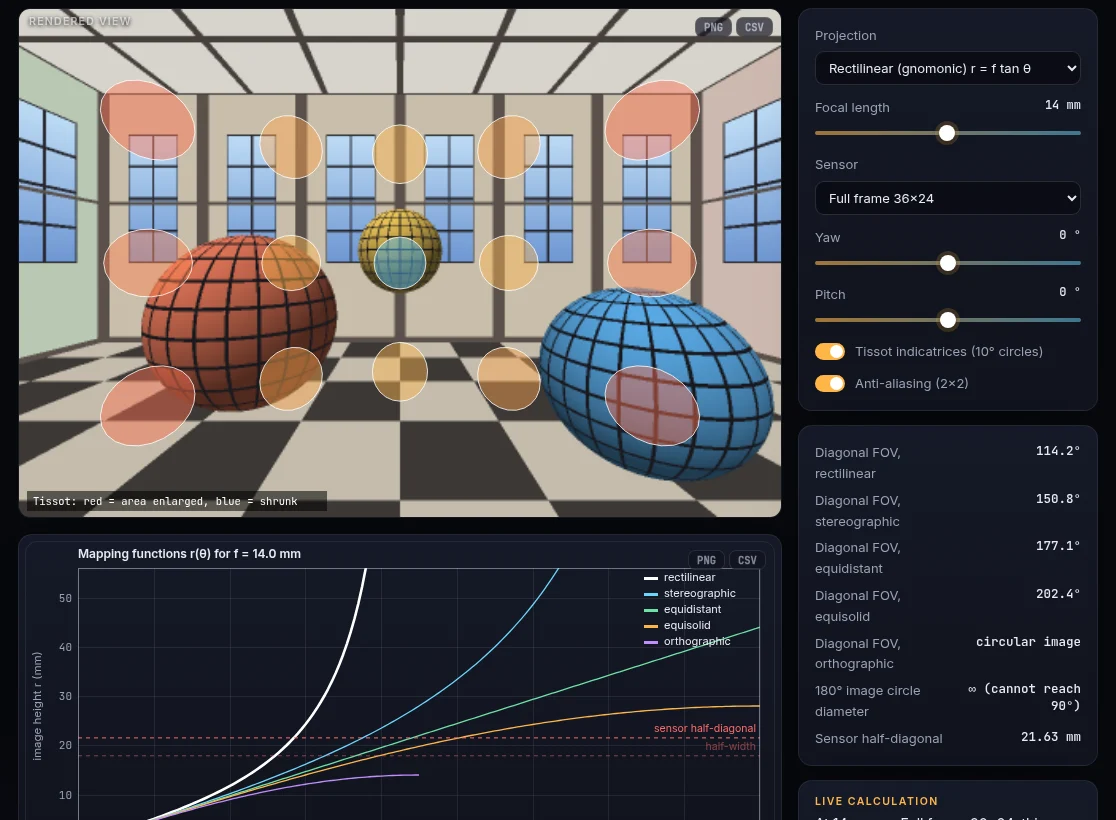
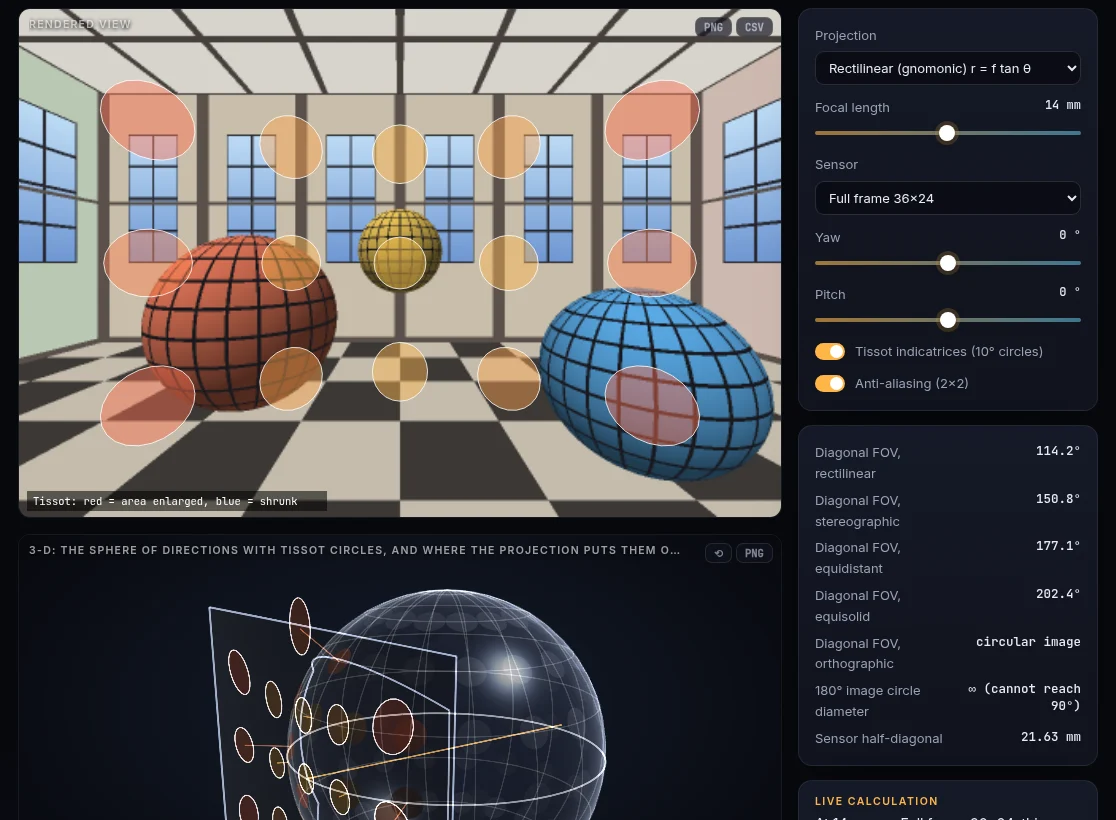
feat(3d): the sphere of directions with Tissot circles, unrolled onto each projection's image plane (#139)
The projection laboratory gets a 3-D view: the sphere of directions (radius f) with the Tissot circles, the image plane tangent to it at the axis with each circle's image, connector lines along the horizon and central meridian, and the sensor's field outlined on the sphere. Tissot circles are now computed once in js/lib/projection.js for both views; the area ratio is referenced to the equal-area image of the same polygon. Tests: equisolid keeps area, stereographic keeps circles, rectilinear area grows as sec³θ and is central projection.

diff --git a/js/modules/projection.js b/js/modules/projection.js
@@ -2,8 +2,10 @@ import { h, controls, stage, readouts, imageCanvas, fmt, texNum } from '../lib/u
 import { header, lab, idea, rule, theory, references, liveCalc } from '../lib/page.js';
 import { plot, range } from '../lib/plot.js';
 import { SENSORS } from '../lib/sensors.js';
-import { PROJ, forward } from '../lib/projection.js';
+import { PROJ, tissotCircles, tissotColour } from '../lib/projection.js';
 import { parallel, rowBands } from '../lib/compute.js';
+import { view3d } from '../lib/gl3d.js';
+import { projectionScene } from '../lib/projection3d.js';
 
 export default function mount(root, meta) {
   root.append(header({ ...meta, domains: ['photo', 'video', 'space'] }));
@@ -27,7 +29,8 @@ export default function mount(root, meta) {
   const calc = liveCalc();
   const view = stage({ aspect: 1.5, label: 'Rendered view', draw: drawView, minH: 280 });
   const curves = stage({ aspect: 2.2, label: '', draw: drawCurves, cls: 'plain', minH: 220 });
-  root.append(lab([view.el, h('div.card', { style: { padding: '6px' } }, curves.el)], [h('div.card', {}, ctl.el), h('div.card', {}, ro), calc.el]));
+  const v3 = view3d({ label: '3-D: the sphere of directions with Tissot circles, and where the projection puts them on the image plane', aspect: 1.7, minH: 280, yaw: 0.95, pitch: 0.3 });
+  root.append(lab([view.el, v3.el, h('div.card', { style: { padding: '6px' } }, curves.el)], [h('div.card', {}, ctl.el), h('div.card', {}, ro), calc.el]));
 
   let img = null;
   // rendered in parallel row bands by the compute workers (js/lib/projection.js); a newer
@@ -77,6 +80,15 @@ export default function mount(root, meta) {
     &\text{stereo: } h=${texNum(hs, 3)},\ k=${texNum(ks, 3)},\ h/k=${texNum(hs / ks, 3)}
     \end{aligned}`);
     view.redraw(); curves.redraw();
+    show3d();
+  }
+  // 3-D: the camera stays where the reader put it, unless the scene's size changes more than 1.5×
+  let size3d = 0;
+  function show3d() {
+    const st = ctl.state, S = SENSORS[st.sensor], size = Math.max(st.f, Math.hypot(S.w, S.h) / 2);
+    const keep = size3d > 0 && size / size3d < 1.5 && size3d / size < 1.5;
+    v3.setScene(projectionScene({ proj: st.proj, f: st.f, sw: S.w, sh: S.h, yaw: st.yaw, pitch: st.pitch }), keep);
+    if (!keep) size3d = size;
   }
 
   function drawView(ctx, w, hh) {
@@ -88,38 +100,13 @@ export default function mount(root, meta) {
     const st = ctl.state;
     if (!st.tissot) return;
     const S = img.S, mm = dw / S.w;
-    const cyw = Math.cos((st.yaw * Math.PI) / 180), syw = Math.sin((st.yaw * Math.PI) / 180);
-    const cp = Math.cos((st.pitch * Math.PI) / 180), sp = Math.sin((st.pitch * Math.PI) / 180);
-    // world → camera (inverse of the render rotation)
-    const toCam = (d) => {
-      const x0 = d[0] * cyw - d[2] * syw, z0 = d[0] * syw + d[2] * cyw;
-      return [x0, d[1] * cp - z0 * sp, d[1] * sp + z0 * cp];
-    };
-    const delta = (5 * Math.PI) / 180; // circle radius (10° diameter)
-    for (let lat = -60; lat <= 60; lat += 20) for (let lon = -160; lon <= 180; lon += 20) {
-      const la = (lat * Math.PI) / 180, lo = (lon * Math.PI) / 180;
-      const c = [Math.cos(la) * Math.sin(lo), Math.sin(la), Math.cos(la) * Math.cos(lo)];
-      const e1 = [Math.cos(lo), 0, -Math.sin(lo)], e2 = [-Math.sin(la) * Math.sin(lo), Math.cos(la), -Math.sin(la) * Math.cos(lo)];
-      const pts = [];
-      let ok = true;
-      for (let k = 0; k <= 24; k++) {
-        const a = (k / 24) * 2 * Math.PI, ca = Math.cos(delta), sa = Math.sin(delta);
-        const d = [0, 1, 2].map((q) => c[q] * ca + sa * (Math.cos(a) * e1[q] + Math.sin(a) * e2[q]));
-        const p = forward(st.proj, toCam(d), st.f);
-        if (!p || !isFinite(p[0])) { ok = false; break; }
-        pts.push([ox + dw / 2 + p[0] * mm, oy + dh / 2 - p[1] * mm]);
-      }
-      if (!ok) continue;
+    for (const t of tissotCircles(st.proj, st.f, st.yaw, st.pitch)) {
+      if (!t.img) continue;
+      const pts = [...t.img.slice(1), t.img[1]].map(([x, y]) => [ox + dw / 2 + x * mm, oy + dh / 2 - y * mm]);
       if (pts.some(([x, y]) => x < ox - 40 || x > ox + dw + 40 || y < oy - 40 || y > oy + dh + 40)) continue;
-      // area relative to the image centre
-      let A = 0; for (let k = 0; k < pts.length - 1; k++) A += pts[k][0] * pts[k + 1][1] - pts[k + 1][0] * pts[k][1];
-      A = Math.abs(A) / 2;
-      const A0 = Math.PI * (st.f * delta * mm) ** 2;
-      const ratio = A / A0;
-      if (ratio > 60) continue;
-      const hue = ratio > 1 ? `rgba(255,${Math.max(60, 200 - 60 * Math.log2(ratio))},80,0.45)` : `rgba(90,${150 + 50 * ratio},255,0.45)`;
+      if (t.ratio > 60) continue;
       ctx.beginPath(); pts.forEach(([x, y], k) => (k ? ctx.lineTo(x, y) : ctx.moveTo(x, y)));
-      ctx.fillStyle = hue; ctx.fill(); ctx.strokeStyle = 'rgba(255,255,255,0.8)'; ctx.lineWidth = 1; ctx.stroke();
+      ctx.fillStyle = `rgba(${tissotColour(t.ratio).join(',')},0.45)`; ctx.fill(); ctx.strokeStyle = 'rgba(255,255,255,0.8)'; ctx.lineWidth = 1; ctx.stroke();
     }
     ctx.fillStyle = 'rgba(0,0,0,0.55)'; ctx.fillRect(ox + 8, oy + dh - 26, 300, 20);
     ctx.fillStyle = '#fff'; ctx.font = '10.5px "JetBrains Mono", monospace'; ctx.textAlign = 'left';
@@ -159,7 +146,9 @@ export default function mount(root, meta) {
 <h3>Tissot's indicatrix</h3>
 <p>An infinitesimal circle of angular radius \(\delta\) on the sphere maps to an ellipse with semi-axes \(h\delta\) (radial) and \(k\delta\) (tangential), where</p>
 \[h = \frac{dR}{d\theta},\qquad k = \frac{R(\theta)}{\sin\theta}.\]
-<p>Conformality means \(h = k\) (stereographic). Equal area means \(hk = f^2\) (equisolid). For a rectilinear lens \(h = f\sec^2\theta\) and \(k = f\sec\theta\). Area therefore grows as \(\sec^3\theta\), and objects are stretched radially by a further factor \(\sec\theta\). This is the "volume anamorphosis" that turns faces at the edge of a wide-angle group photo into ovals. The overlay draws the exact images of 10° circles by mapping 24 boundary directions through the projection.</p>
+<p>Conformality means \(h = k\) (stereographic). Equal area means \(hk = f^2\) (equisolid). For a rectilinear lens \(h = f\sec^2\theta\) and \(k = f\sec\theta\). Area therefore grows as \(\sec^3\theta\), and objects are stretched radially by a further factor \(\sec\theta\). This is the "volume anamorphosis" that turns faces at the edge of a wide-angle group photo into ovals. The overlay draws the exact images of 10° circles by mapping 24 boundary directions through the projection. Each is coloured by its area relative to the image of the same 24-sided polygon under the equal-area mapping, so the polygon's own area deficit cancels.</p>
+<h3>The sphere of directions</h3>
+<p>Every projection starts from the same object: the sphere of all directions around the centre of projection. The 3-D view draws it with radius \(f\), so that the image plane is the plane tangent to it at the optical axis. The gnomonic projection is then literal: each direction's image is where the straight line from the centre through the sphere meets the plane, and nothing beyond 90° ever reaches it. Every other mapping places the image at \(R(\theta)\) instead of \(f\tan\theta\), so the line from a circle to its image no longer passes through the centre. The fisheyes fold the whole forward hemisphere inside the gold circle \(r = R(90^\circ)\). The outline on the sphere is the sensor's border mapped back through the projection: the part of the world the picture contains. Near the back pole a 5° circle's image becomes a thin crescent, which the 24-point outline only approximates.</p>
 </div><div>
 <h3>Why spheres become ellipses</h3>
 <p>A sphere subtends a circular cone. A gnomonic projection images that cone as a conic section (an ellipse whose eccentricity grows with \(\theta\)), even though the projection is "distortion-free" in the lens-designer's sense. Panoramic projections such as cylindrical and Panini give up straightness of horizontal lines to keep verticals straight and objects round. Panini (\(d = 1\)) is a stereographic projection of a cylinder. Painters of vedute used it intuitively.</p>
@@ -174,5 +163,5 @@ export default function mount(root, meta) {
     'T. K. Sharpless, B. Postle &amp; D. M. German, "Pannini: a new projection for rendering wide angle perspective images", Computational Aesthetics (2010).',
     'M. R. Calabretta &amp; E. W. Greisen, "Representations of celestial coordinates in FITS", A&amp;A 395, 1077 (2002).',
   ]));
-  return () => [view, curves].forEach((s) => s.destroy());
+  return () => [view, v3, curves].forEach((s) => s.destroy());
 }

diff --git a/js/lib/projection3d.js b/js/lib/projection3d.js
@@ -1,0 +1,94 @@
+// 3-D scene for the projection laboratory (shown by js/lib/gl3d.js): the sphere of directions,
+// radius f, around the centre of projection, with the Tissot circles of the 2-D overlay on it, and
+// the image plane tangent to the sphere at the optical axis (distance f, as for a pinhole), on
+// which the same circles land where the chosen projection puts them. A thin line joins each
+// circle on the horizon and on the central meridian to its image: for the rectilinear projection these lines are rays through
+// the centre, for every other mapping they are not. In millimetres, camera frame (x right, y up,
+// z along the optical axis). Pure: no DOM.
+import { PROJ, inverse, toCamera, tissotCircles, tissotColour } from './projection.js';
+import { sphere, quad, merge, tint } from './mesh3d.js';
+
+const SENSOR = [0.62, 0.66, 0.74], AXIS = [1, 0.71, 0.28];
+
+// A filled polygon (a fan around its first point) with a single normal; pts: [[x, y, z], …],
+// the first being the centre.
+function fan(pts, n) {
+  const positions = new Float32Array(pts.flat()), normals = new Float32Array(pts.length * 3), idx = [];
+  for (let i = 0; i < pts.length; i++) normals.set(n(pts[i]), i * 3);
+  for (let k = 1; k < pts.length; k++) idx.push(0, k, k === pts.length - 1 ? 1 : k + 1);
+  return { positions, normals, indices: new Uint32Array(idx) };
+}
+const scale = (d, r) => [d[0] * r, d[1] * r, d[2] * r];
+const rgb = (c) => c.map((v) => v / 255);
+
+// Does the image point lie on the sensor (with a margin of 6 % of its width)?
+export const onSensor = ([x, y], sw, sh) => Math.abs(x) <= sw * 0.56 && Math.abs(y) <= sh / 2 + sw * 0.06;
+
+// The edge of the sensor's field of view on the sphere: the sensor outline mapped back through the
+// projection, as polylines of unit directions (split where the outline leaves the image circle).
+export function fieldEdge(proj, f, sw, sh, n = 48) {
+  const border = [];
+  for (let i = 0; i < n; i++) border.push([-sw / 2 + (sw * i) / n, sh / 2]);
+  for (let i = 0; i < n; i++) border.push([sw / 2, sh / 2 - (sh * i) / n]);
+  for (let i = 0; i < n; i++) border.push([sw / 2 - (sw * i) / n, -sh / 2]);
+  for (let i = 0; i <= n; i++) border.push([-sw / 2, -sh / 2 + (sh * i) / n]);
+  const runs = [];
+  let run = [];
+  for (const [x, y] of border) {
+    const d = inverse(proj, x, y, f);
+    if (d) run.push(d);
+    else if (run.length) { runs.push(run); run = []; }
+  }
+  if (run.length) runs.push(run);
+  return runs.filter((r) => r.length > 1);
+}
+
+// m = { proj, f (mm), sw, sh (sensor, mm), yaw, pitch (°) }
+export function projectionScene({ proj, f, sw, sh, yaw, pitch }) {
+  const meshes = [], lines = [], labels = [];
+  const cam = toCamera(yaw, pitch), P = PROJ[proj];
+  // the sphere of directions, its world graticule (horizon brighter) and the optical axis
+  meshes.push({ mesh: sphere(f, [0, 0, 0], 48, 24), color: [0.55, 0.62, 0.8], opacity: 0.1, glass: true });
+  const deg = Math.PI / 180;
+  for (let lat = -80; lat <= 80; lat += 20) {
+    const pts = [];
+    for (let lo = 0; lo <= 360; lo += 5) pts.push(scale(cam([Math.cos(lat * deg) * Math.sin(lo * deg), Math.sin(lat * deg), Math.cos(lat * deg) * Math.cos(lo * deg)]), f));
+    lines.push({ points: pts, color: lat === 0 ? [1, 1, 1, 0.5] : [1, 1, 1, 0.13], width: lat === 0 ? 1.4 : 1, glow: false });
+  }
+  for (let lo = 0; lo < 360; lo += 20) {
+    const pts = [];
+    for (let la = -90; la <= 90; la += 5) pts.push(scale(cam([Math.cos(la * deg) * Math.sin(lo * deg), Math.sin(la * deg), Math.cos(la * deg) * Math.cos(lo * deg)]), f));
+    lines.push({ points: pts, color: [1, 1, 1, 0.13], width: 1, glow: false });
+  }
+  lines.push({ points: [[0, 0, -f * 1.1], [0, 0, f]], color: [...AXIS, 0.7], width: 1.2 });
+  labels.push({ p: [0, -f * 0.14, 0], text: 'centre of projection', color: '#ffb547' });
+  // the image plane at z = f: the sensor, and for fisheyes the image of the hemisphere
+  meshes.push({ mesh: quad([0, 0, f * 0.999], [1, 0, 0], [0, 1, 0], sw / 2, sh / 2), color: [0.1, 0.11, 0.14], opacity: 0.4, glass: true });
+  lines.push({ points: [[-sw / 2, sh / 2, f], [sw / 2, sh / 2, f], [sw / 2, -sh / 2, f], [-sw / 2, -sh / 2, f], [-sw / 2, sh / 2, f]], color: [...SENSOR, 0.9], width: 1.5 });
+  labels.push({ p: [0, -sh / 2 - sw * 0.05, f], text: `image plane, sensor ${sw} × ${sh} mm`, color: '#c9cfdc' });
+  if (!P.cyl && P.max >= Math.PI / 2) {
+    const r = P.R(Math.PI / 2, f), pts = [];
+    for (let k = 0; k <= 96; k++) pts.push([r * Math.cos((k / 96) * 2 * Math.PI), r * Math.sin((k / 96) * 2 * Math.PI), f]);
+    lines.push({ points: pts, color: [...AXIS, 0.55], width: 1.2 });
+    labels.push({ p: [r * 0.71, -r * 0.71, f], text: '90° from the axis', color: '#ffb547' });
+  }
+  // what the sensor sees, outlined on the sphere
+  for (const run of fieldEdge(proj, f, sw, sh)) lines.push({ points: run.map((d) => scale(d, f * 1.004)), color: [...SENSOR, 0.85], width: 1.4 });
+  // the Tissot circles: on the sphere, and on the image plane where they fall on the sensor (merged
+  // into one mesh per opacity, with per-vertex colours)
+  const onSphere = [], offSphere = [], onImage = [];
+  for (const t of tissotCircles(proj, f, yaw, pitch)) {
+    const shown = t.img && t.ratio <= 60 && t.img.every((p) => onSensor(p, sw, sh));
+    const col = shown ? rgb(tissotColour(t.ratio)) : [0.5, 0.52, 0.58];
+    (shown ? onSphere : offSphere).push(tint(fan([t.centre, ...t.ring].map((d) => scale(d, f * 1.003)), (p) => scale(p, 1 / Math.hypot(...p))), col));
+    if (!shown) continue;
+    const img = t.img.map(([x, y]) => [x, y, f * 1.002]);
+    onImage.push(tint(fan(img, () => [0, 0, 1]), col));
+    lines.push({ points: [...img.slice(1), img[1]], color: [1, 1, 1, 0.75], width: 1, glow: false });
+    if (t.lat === 0 || t.lon === 0) lines.push({ points: [scale(t.centre, f), img[0]], color: [...col, 0.5], width: 1, glow: false });
+  }
+  for (const [list, opacity] of [[onSphere, 0.75], [offSphere, 0.3], [onImage, 0.6]]) if (list.length) meshes.push({ mesh: merge(list), color: [1, 1, 1], opacity });
+  // aim at the sphere and the sensor together
+  const half = Math.max(f, Math.hypot(sw, sh) / 2);
+  return { meshes, lines, labels, frame: { centre: [0, 0, f * 0.35], size: Math.hypot(2 * half, f * 2) * 0.95 } };
+}

diff --git a/js/lib/projection.js b/js/lib/projection.js
@@ -42,6 +42,52 @@ export function forward(p, d, f) {
   return [r * Math.cos(a), r * Math.sin(a)];
 }
 
+// World → camera directions for a camera yawed (about y) and pitched (about x), in degrees: the
+// inverse of the rotation used by projectionRows.
+export function toCamera(yaw, pitch) {
+  const cy = Math.cos((yaw * Math.PI) / 180), sy = Math.sin((yaw * Math.PI) / 180);
+  const cp = Math.cos((pitch * Math.PI) / 180), sp = Math.sin((pitch * Math.PI) / 180);
+  return (d) => {
+    const x0 = d[0] * cy - d[2] * sy, z0 = d[0] * sy + d[2] * cy;
+    return [x0, d[1] * cp - z0 * sp, d[1] * sp + z0 * cp];
+  };
+}
+
+// Tissot indicatrices: circles of angular radius δ on the sphere of directions, centred every 20°
+// in latitude (±60°) and longitude (world frame), each traced by n boundary directions.
+// Returns [{ lat, lon, centre, ring (camera-frame unit vectors), img: [[x, y] mm, …] (the
+// exact images of centre and ring, or null if any point has none), ratio }], where ratio is the
+// image area relative to an equal-area projection's (> 1: enlarged); the reference is the
+// image of the same n-gon under r = 2f sin(θ/2), so the polygon's own area deficit cancels.
+export const TISSOT_DELTA = (5 * Math.PI) / 180;
+export function tissotCircles(proj, f, yaw, pitch, delta = TISSOT_DELTA, n = 24) {
+  const cam = toCamera(yaw, pitch), out = [];
+  const A0 = (n / 2) * Math.sin((2 * Math.PI) / n) * (2 * f * Math.sin(delta / 2)) ** 2;
+  for (let lat = -60; lat <= 60; lat += 20) for (let lon = -160; lon <= 180; lon += 20) {
+    const la = (lat * Math.PI) / 180, lo = (lon * Math.PI) / 180;
+    const c = [Math.cos(la) * Math.sin(lo), Math.sin(la), Math.cos(la) * Math.cos(lo)];
+    const e1 = [Math.cos(lo), 0, -Math.sin(lo)], e2 = [-Math.sin(la) * Math.sin(lo), Math.cos(la), -Math.sin(la) * Math.cos(lo)];
+    const ca = Math.cos(delta), sa = Math.sin(delta), ring = [];
+    for (let k = 0; k < n; k++) {
+      const a = (k / n) * 2 * Math.PI;
+      ring.push(cam([0, 1, 2].map((q) => c[q] * ca + sa * (Math.cos(a) * e1[q] + Math.sin(a) * e2[q]))));
+    }
+    const centre = cam(c);
+    let img = [centre, ...ring].map((d) => forward(proj, d, f));
+    if (img.some((p) => !p || !isFinite(p[0]) || !isFinite(p[1]))) img = null;
+    let ratio = NaN;
+    if (img) {
+      let A = 0;
+      for (let k = 1; k <= n; k++) { const p = img[k], q = img[k === n ? 1 : k + 1]; A += p[0] * q[1] - q[0] * p[1]; }
+      ratio = Math.abs(A) / 2 / A0;
+    }
+    out.push({ lat, lon, centre, ring, img, ratio });
+  }
+  return out;
+}
+// Fill colour (0–255) for an area ratio: red when enlarged, blue when shrunk.
+export const tissotColour = (ratio) => (ratio > 1 ? [255, Math.max(60, 200 - 60 * Math.log2(ratio)), 80] : [90, 150 + 50 * ratio, 255]);
+
 // ── Scene: a 12 × 12 m hall with windows, chequered floor and globes ───────────────────
 const BOX = { x: 6, yl: -1.6, yh: 3.4, z: 6 };
 const GLOBES = [[-1.6, -0.6, 3.2, 0.9], [1.9, -0.9, 2.4, 0.7], [0, 0.2, 5.0, 0.7], [-3.6, -0.8, 0.8, 0.75], [3.7, -0.7, -1.5, 0.85]];

diff --git a/js/locales/fr.js b/js/locales/fr.js
@@ -1249,4 +1249,5 @@ export default {
   "Test colours the display cannot show": "Couleurs test que l’écran ne peut pas afficher",
   "3-D: every surface colour possible under this light, in CIE xyY, with a display gamut": "3-D : toutes les couleurs de surface possibles sous cette lumière, en CIE xyY, avec un gamut d’écran",
   "3-D, true scale: what the camera sees, the plane of focus and the sharp zone": "3-D, à l’échelle : ce que voit l’appareil, le plan de netteté et la zone nette",
+  "3-D: the sphere of directions with Tissot circles, and where the projection puts them on the image plane": "3-D : la sphère des directions avec les cercles de Tissot, et où la projection les place sur le plan image",
 };

diff --git a/js/locales/es.js b/js/locales/es.js
@@ -1249,4 +1249,5 @@ export default {
   "Test colours the display cannot show": "Colores de prueba que la pantalla no puede mostrar",
   "3-D: every surface colour possible under this light, in CIE xyY, with a display gamut": "3-D: todos los colores de superficie posibles con esta luz, en CIE xyY, con una gama de pantalla",
   "3-D, true scale: what the camera sees, the plane of focus and the sharp zone": "3-D, a escala: lo que ve la cámara, el plano de enfoque y la zona nítida",
+  "3-D: the sphere of directions with Tissot circles, and where the projection puts them on the image plane": "3-D: la esfera de direcciones con los círculos de Tissot y dónde los coloca la proyección en el plano imagen",
 };

diff --git a/js/locales/de.js b/js/locales/de.js
@@ -1249,4 +1249,5 @@ export default {
   "Test colours the display cannot show": "Testfarben, die das Display nicht zeigen kann",
   "3-D: every surface colour possible under this light, in CIE xyY, with a display gamut": "3-D: jede unter diesem Licht mögliche Oberflächenfarbe in CIE xyY, mit einem Displayfarbraum",
   "3-D, true scale: what the camera sees, the plane of focus and the sharp zone": "3-D, maßstäblich: was die Kamera sieht, die Schärfeebene und der scharfe Bereich",
+  "3-D: the sphere of directions with Tissot circles, and where the projection puts them on the image plane": "3-D: die Richtungskugel mit Tissot-Kreisen und wohin die Projektion sie auf der Bildebene legt",
 };

diff --git a/README.md b/README.md
@@ -216,7 +216,7 @@ Ten formats from phone to IMAX inside a real image circle. The equivalence table
 **Fisheye vs rectilinear** · `#/projection`<br>
 <img src="docs/screenshots/projection.webp" alt="Rectilinear projection of a 3-D hall with Tissot indicatrices">
 
-Per-pixel inverse ray casting into a 3-D hall through seven projections: gnomonic, stereographic, equidistant, equisolid, orthographic, Panini and equirectangular. **Exact Tissot indicatrices** show local distortion.
+Per-pixel inverse ray casting into a 3-D hall through seven projections: gnomonic, stereographic, equidistant, equisolid, orthographic, Panini and equirectangular. **Exact Tissot indicatrices** show local distortion. A **3-D view** puts the same circles on the sphere of directions and on the image plane tangent to it, so you can see each projection unroll the sphere: rectilinear is central projection through the centre, the fisheyes fold the whole sphere into a circle.
 
 </td>
 </tr>
@@ -852,6 +852,7 @@ Optica_Viva/
 │   │   ├── tilt3d.js          3-D Scheimpflug geometry at true scale, and the plane of focus over the toy town
 │   │   ├── dof3d.js           3-D depth of field: the camera's frustum, plane of focus, sharp zone and cards at true scale
 │   │   ├── colour3d.js        3-D colour solid: optimal colours under a source in xyY, display gamuts, test colours
+│   │   ├── projection3d.js    3-D sphere of directions with Tissot circles, the image plane and the sensor's field
 │   │   ├── i18n.js            Interface translation: t(), N_(), language choice and loading
 │   │   ├── transit.js         Transit light curves with limb darkening, orbits, photometric noise
 │   │   ├── ledset.js          LED mission: flicker-free shutter angles, PWM banding, safe wall distance
@@ -948,6 +949,9 @@ The numerical core was checked against published or analytically known values. E
 | Real-ray flare ghosts, Double-Gauss at f/18, 0.57° (4 paths) | position within 3 %, size within 2 %, flux within 3 % | y–nu ghost matrices: (B − AD/C)θ, \|A/C\| r<sub>stop</sub>, R<sub>i</sub>R<sub>j</sub> π(r<sub>stop</sub>/C)² |
 | Brewster angle, water and N-BK7 | 53.12°, 56.60° | arctan n = 53.12°, 56.60° |
 | Three ideal polarisers at 0°, 45°, 90° (unpolarised input) | 1/8 | ½ · cos²45° · cos²45° = 0.125 |
+| Tissot area ratio, equisolid fisheye (5° circles up to 140° off axis) | 1 within 0.2 % | equal-area projection: hk = f² |
+| Tissot circle, stereographic, 40° latitude | a circle to 10⁻⁹ | conformal: circles map to circles |
+| Tissot area ratio, rectilinear at 40° | 2.255 | sec³θ = 2.225 (5° circle: +1.4 %) |
 | Rayleigh optical depth at 550 nm | 0.0973 | sea-level standard atmosphere ≈ 0.097 |
 | Polarised lake render, centre pixel | equals an explicit Mueller chain (rotate · reflect · rotate · polarise) to 10⁻⁶ | independent vector-frame calculation |
 | Vertical polariser on a Brewster-angle reflection | < 1 % transmitted | reflection fully s-polarised (R<sub>p</sub> = 0) |

diff --git a/ROADMAP.md b/ROADMAP.md
@@ -75,7 +75,7 @@ flowchart LR
 | Laboratories | 59 pages, including 9 missions and the reference pages | see Planned milestones |
 | Catalogue entries | 228, each with details and a worked example | link every new lab |
 | Lens prescriptions | 15: camera lenses from the Petzval to the Biogon, Hubble, a Cassegrain and a three-mirror anastigmat; aspheres, mirrors, model glasses and file import | (none planned) |
-| Automated tests | 308 tests (physics, blur, lens I/O, ghosts, bokeh, polarisation, macro, colour, AO) + link check + browser smoke test in CI | more coverage per new lab |
+| Automated tests | 310 tests (physics, blur, lens I/O, ghosts, bokeh, polarisation, macro, colour, AO) + link check + browser smoke test in CI | more coverage per new lab |
 | Deployment | GitHub Pages, deployed from `main` by CI | (none) |
 
 ---
@@ -519,7 +519,7 @@ Candidates, in order of how much the third dimension adds:
 - [x] **P1 · M** **Polarisation** (#130): the electric field along the beam through each polariser and wave plate (flat waves, helices, ellipses, with the unpolarised share as a ring), and the Poincaré sphere with the state after each element.
 - [x] **P1 · S** **Wavefronts and PSFs as surfaces** (#129): the Zernike wavefront over a round pupil next to its PSF's log relief, and the PSF laboratory's star image as a relief in its own colours (JWST's six spikes in near-infrared colour). *The seeing phase screen remains.*
 - [x] **P2 · M** **Depth of field**: at true scale, the camera's view frustum (the photograph's sensor, height and shifted framing), the plane of focus, the sharp zone as a glass slab and the cards coloured by their blur.
-- [ ] **P2 · M** **Projections**: the sphere of directions with Tissot circles, unrolled onto each projection's image plane.
+- [x] **P2 · M** **Projections**: the sphere of directions (radius f) with the Tissot circles, the image plane tangent to it at the axis, each circle's image where the projection puts it, and the sensor's field outlined on the sphere.
 - [ ] **P2 · M** **Gravitational lensing**: rays bending past the lens galaxy between source and observer, with the Einstein ring as a cone.
 - [ ] **P2 · M** **Interferometry**: the rotating Earth with the array's baselines sweeping the u-v plane.
 - [ ] **P2 · M** **Orbits**: Earth observation (orbit, swath and push-broom footprint) and exoplanet transits (orbit, line of sight, impact parameter).

diff --git a/CHANGELOG.md b/CHANGELOG.md
@@ -6,6 +6,12 @@ The format follows [Keep a Changelog](https://keepachangelog.com/en/1.1.0/), and
 
 ## [Unreleased]
 
+### Added
+- **3-D projections** (`js/lib/projection3d.js`): the projection laboratory shows the sphere of directions, radius f, with the Tissot circles on it, and the image plane tangent to it at the optical axis, where each circle lands as the chosen projection maps it. Lines join the circles on the horizon and the central meridian to their images (straight rays through the centre only for the rectilinear lens); the sensor's field is outlined on the sphere, and circles outside it are grey. The Tissot circles are now computed once in `js/lib/projection.js` (`tissotCircles`, `tissotColour`, `toCamera`) for the 2-D overlay and the 3-D view.
+
+### Changed
+- The Tissot area ratio is measured against the image of the same 24-sided polygon under the equal-area mapping, so the polygon's own area deficit (1.1 %) cancels: an equisolid fisheye now reads 1.000.
+
 ## [1.21.0] - 2026-10-27
 
 ### Added
